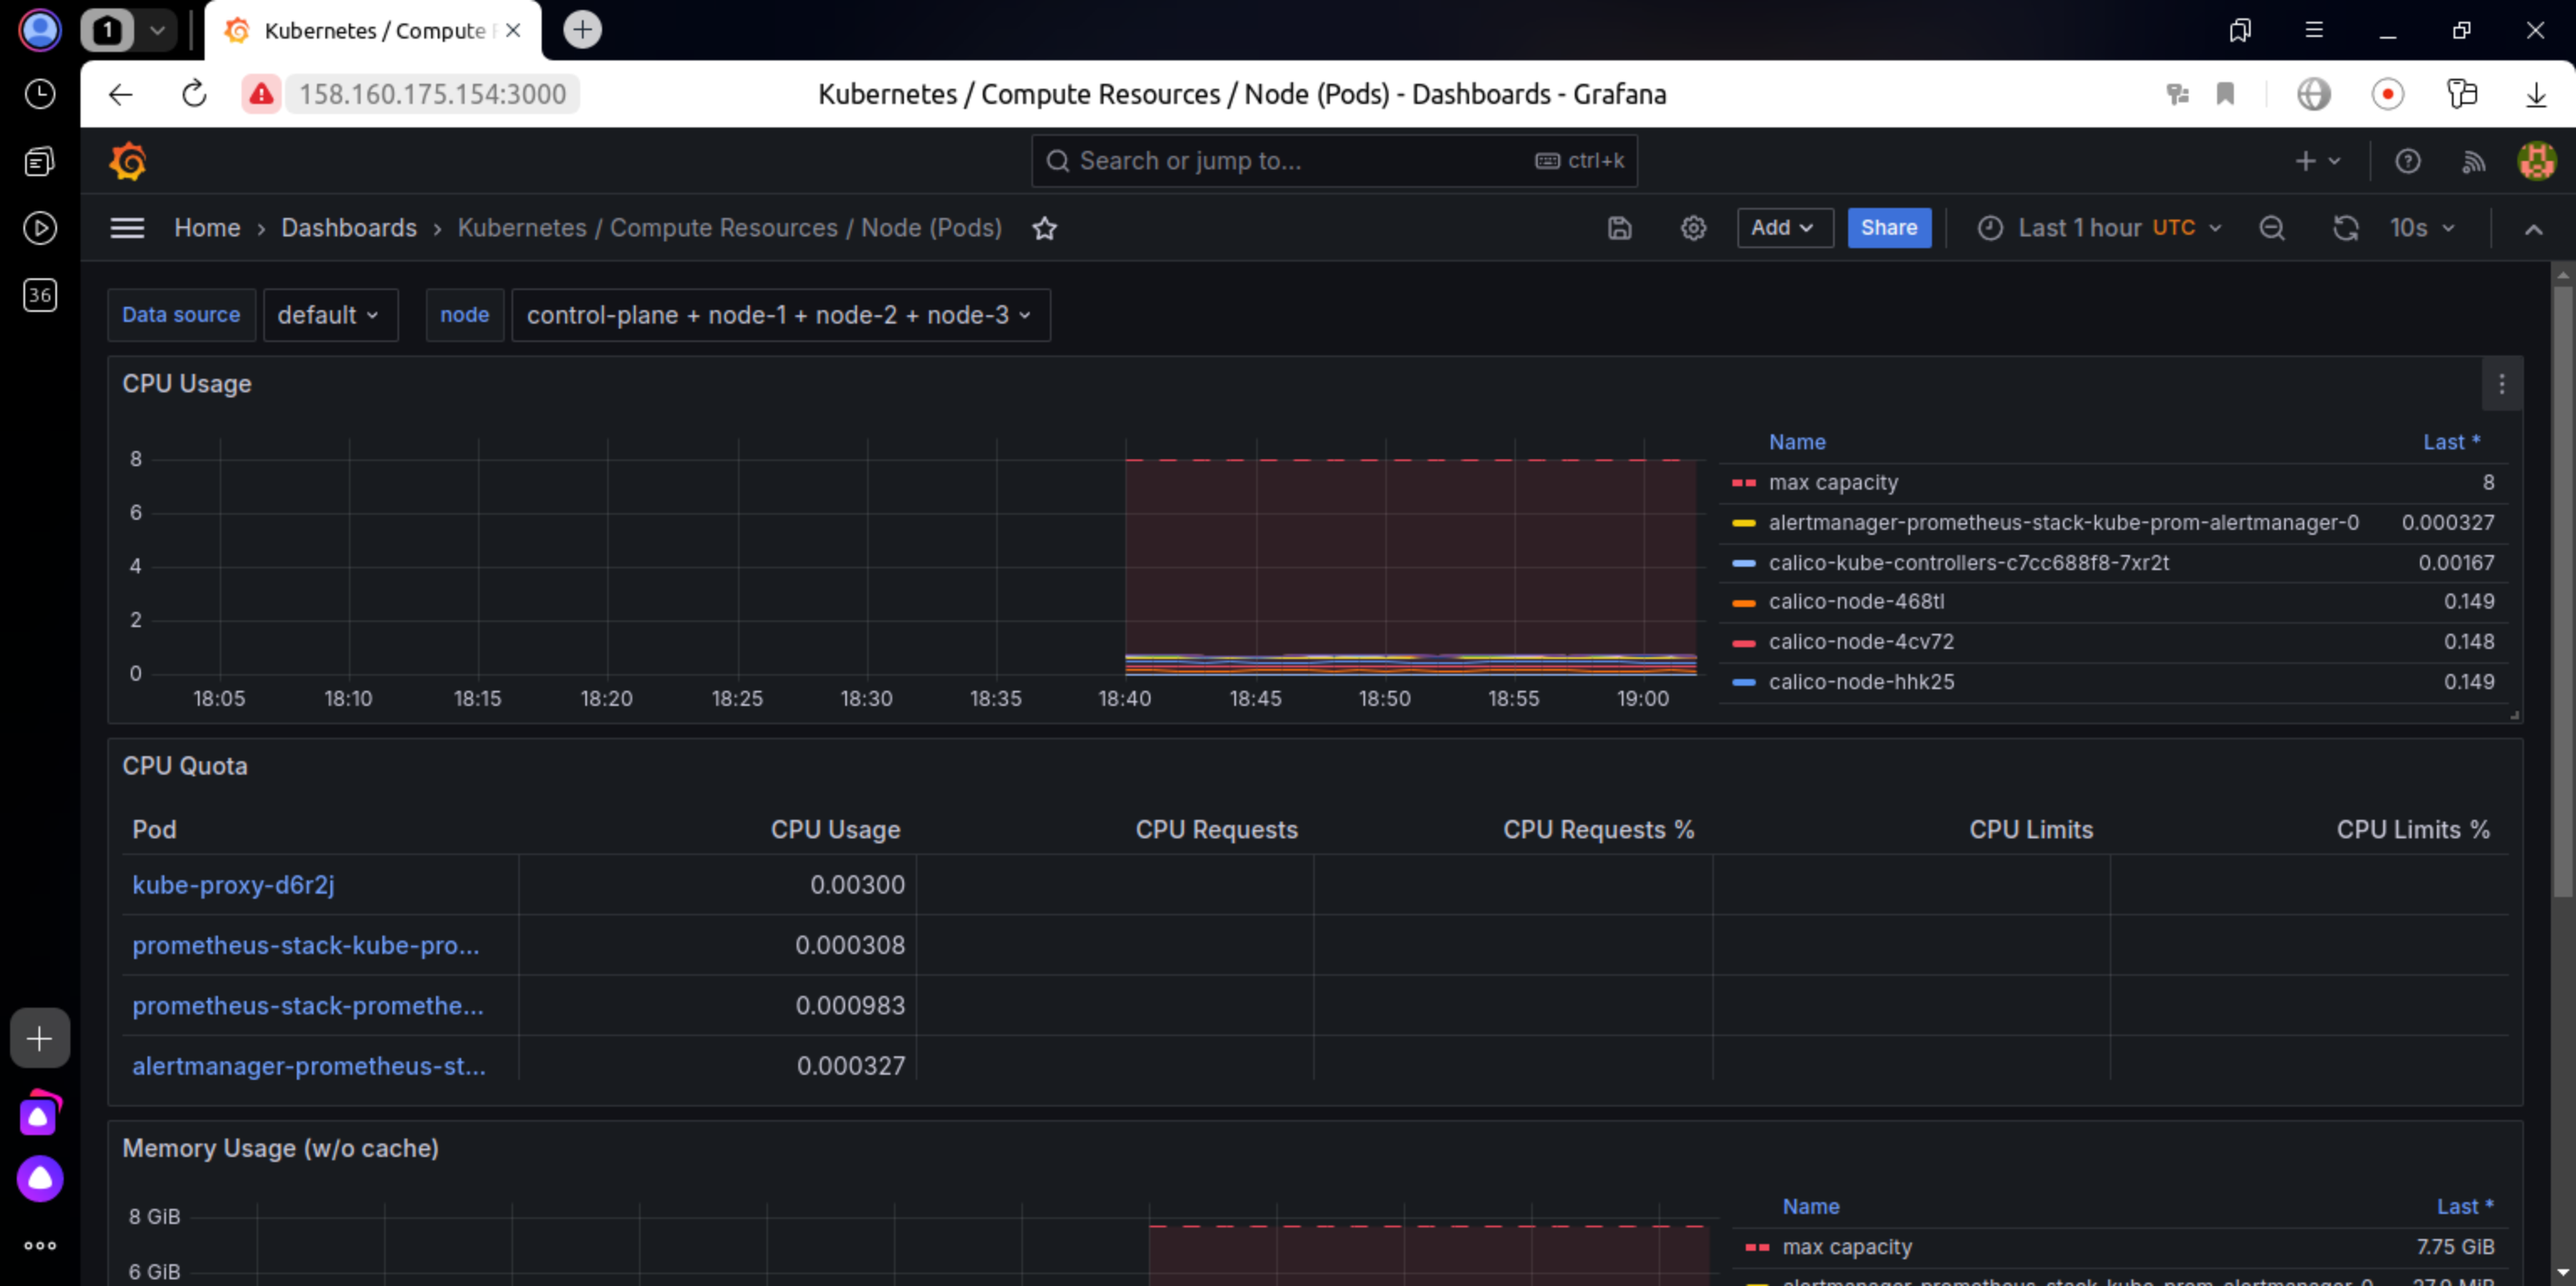
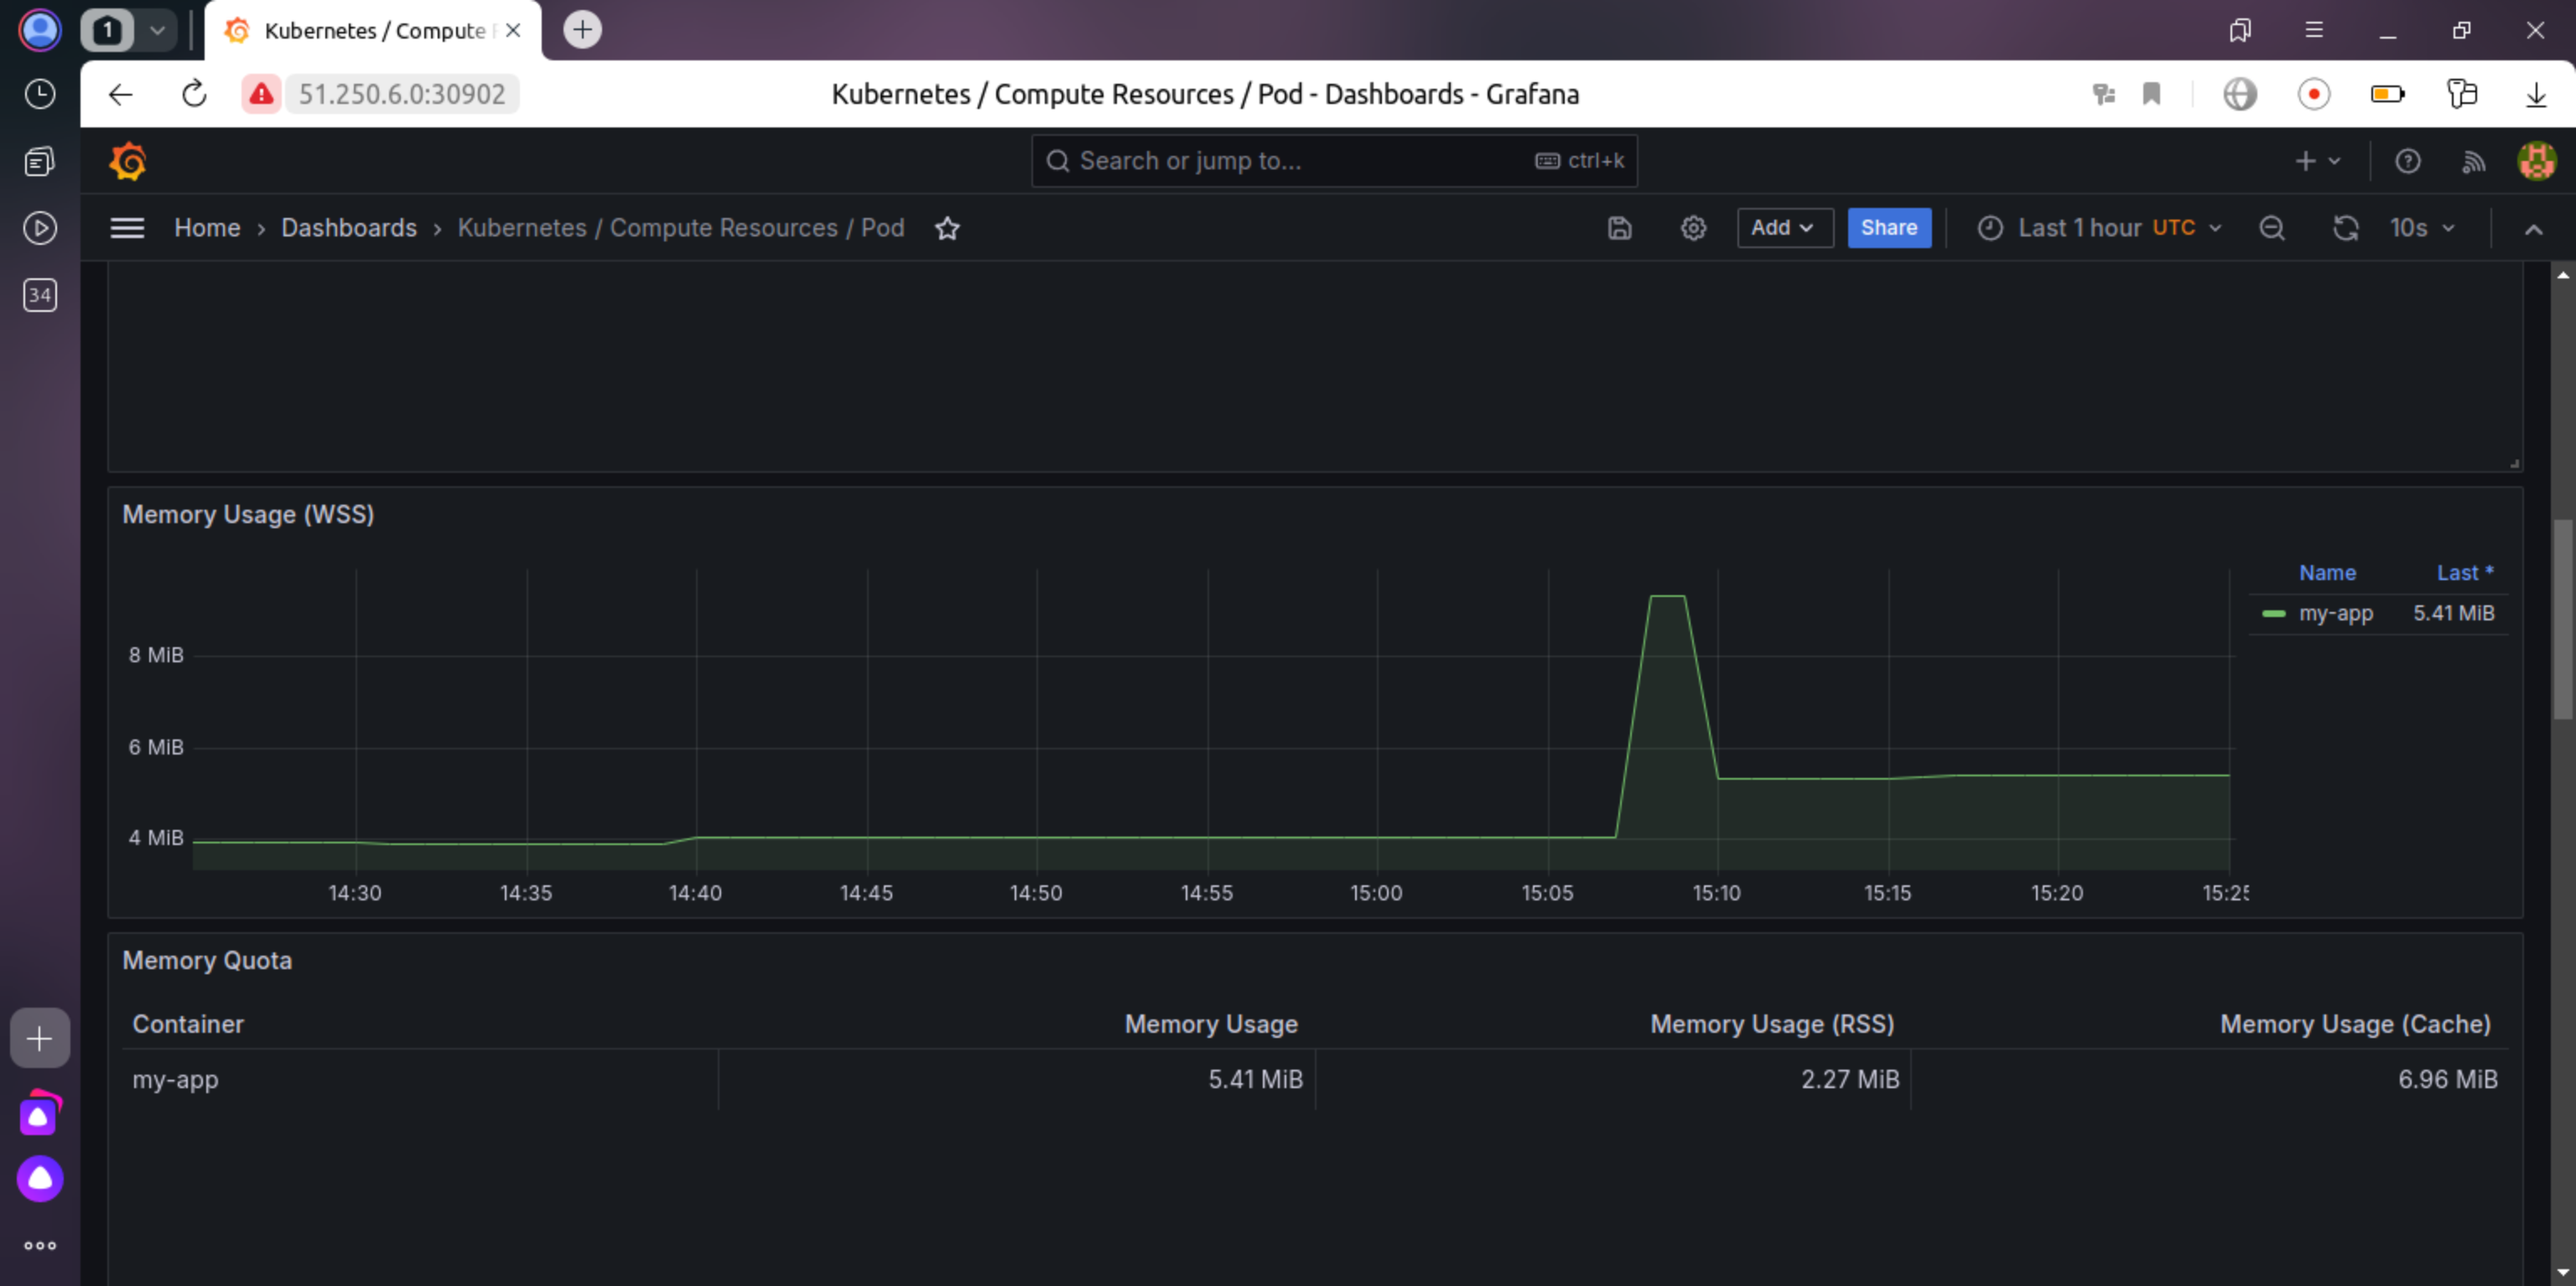
V1.7

diff --git a/diplom/diplom/README.md b/diplom/diplom/README.md
@@ -184,11 +184,8 @@ spec:
       targetPort: 3000
 ```
 
-   4. Для доступа через внешний адрес  добавим конфигурацию терраформа с балансировщиком для приложения и графаны.
-      
-   [конфигурация](./terraform/nlb.tf)
 
-   5. Проверим доступность
+   4. Проверим доступность
 
 ![Grafana](./src/7.png)
 
